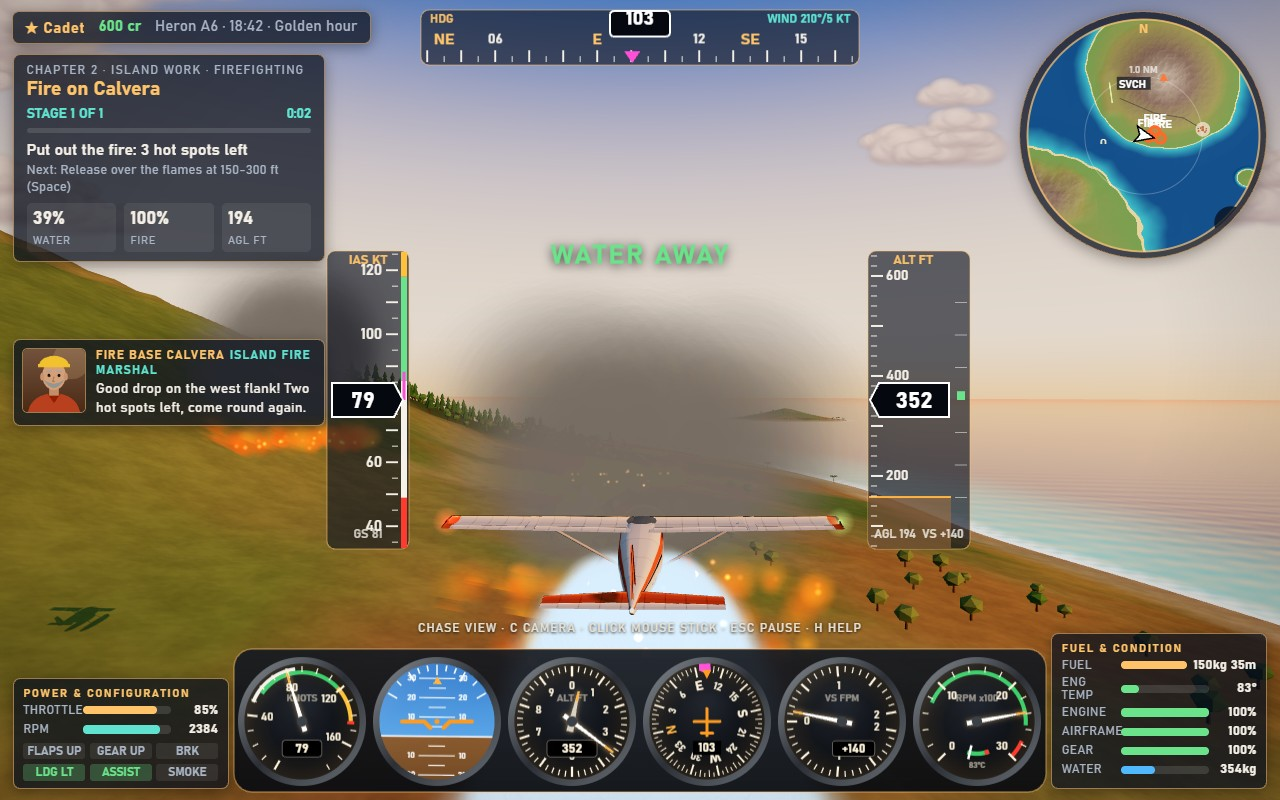
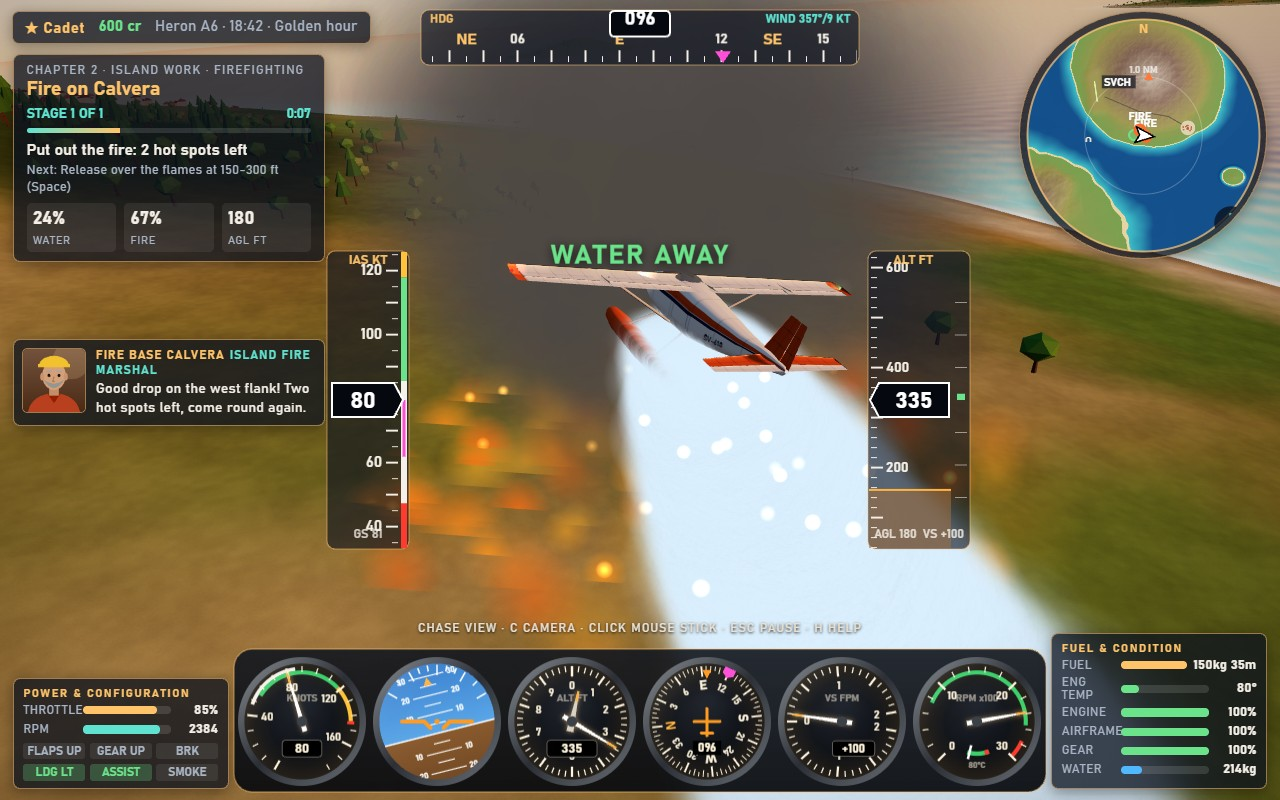
Firefight shot re-staged: second pass along the slope after the west flank is out, banking Heron with its water curtain over the flames, coast beyond; north wind carries narrower, darker smoke toward the sea

diff --git a/game/src/core/screenshotScenes.js b/game/src/core/screenshotScenes.js
@@ -57,18 +57,27 @@ export function stageScreenshot(name, game) {
     game.controls.mouse.state.lookY = 0.09;
     run(game, 1 / 60);
   } else if (name === 'firefight') {
+    // Second pass over the fire line on Calvera's south slope: the west flank is already out, the
+    // Heron banks along the slope with its water curtain falling on the east hot spot, the smoke
+    // drifting off to the side, San Calvo and the coast beyond.
     game.startMission(missionById('firebreak'));
-    const fire = { x: 3250, z: -1780 };
-    const ground = Math.max(0, game.world.terrain.heightAt(fire.x, fire.z));
     for (let i = 0; i < 420; i += 1) game.effects.update(STEP, 700, game.wind.state.current, null, game.camera, false);
-    const heading = 100;
-    const h = THREE.MathUtils.degToRad(heading);
-    const start = { x: fire.x - Math.sin(h) * 280, z: fire.z + Math.cos(h) * 280 };
-    session.simulation.start(session.spec, { x: start.x, y: ground + 58, z: start.z, heading, pitch: 2, speed: 41, flaps: 0, throttle: 0.85, gearDown: false }, { birds: false });
+    const passOver = (fire, heading, height, back, aside = 0) => {
+      const h = THREE.MathUtils.degToRad(heading);
+      const x = fire.x - Math.sin(h) * back - Math.cos(h) * aside;
+      const z = fire.z + Math.cos(h) * back - Math.sin(h) * aside;
+      return { x, y: Math.max(0, game.world.terrain.heightAt(x, z)) + height, z, heading };
+    };
+    session.simulation.start(session.spec, { ...passOver({ x: 3250, z: -1780 }, 100, 55, 130), pitch: 1, speed: 41, flaps: 0, throttle: 0.85, gearDown: false }, { birds: false });
     session.body.water = session.spec.waterCapacity;
     game.controls.controls.throttle = 0.85;
-    Object.assign(game.cameras.chaseFraming, { height: 1.55, distance: 1.2, lookAhead: 150, lookUp: -2 });
-    run(game, 2.4, { 105: ['action'] });
+    run(game, 5, { 2: ['action'] });
+    session.simulation.start(session.spec, { ...passOver({ x: 3600, z: -1730 }, 95, 50, 150, 35), pitch: 2, bank: 14, speed: 41, flaps: 0, throttle: 0.85, gearDown: false }, { birds: false });
+    session.body.water = session.spec.waterCapacity;
+    document.getElementById('toast-messages').replaceChildren();
+    Object.assign(game.cameras.chaseFraming, { height: 2.3, distance: 1.2, lookAhead: 6, lookUp: -7, yaw: -0.42 });
+    game.cameras.view = 'chase';
+    run(game, 1.9, { 62: ['action'] });
     game.hud.radio.say('bruno', 'Good drop on the west flank! Two hot spots left, come round again.', { priority: true });
     game.hud.radio.hold();
     run(game, 0.2);

diff --git a/game/src/effects/effectsDirector.js b/game/src/effects/effectsDirector.js
@@ -111,7 +111,7 @@ export function createEffectsDirector(scene, worldEmitters) {
           if (random() < 0.3) sparks.emit(f.x + Math.cos(a) * r, f.y + 3, f.z + Math.sin(a) * r, (random() - 0.5) * 3, 4 + random() * 6, (random() - 0.5) * 3, { life: 0.7, size: 2.5, grow: 0, alpha: 0.9, color: [1, 0.7, 0.3], drag: 1, lift: 1 });
         }
         if (random() < dt * 12 * f.intensity) {
-          smoke.emit(f.x + (random() - 0.5) * f.radius, f.y + 10, f.z + (random() - 0.5) * f.radius, 0, 8 + random() * 4, 0, { life: 18, size: 12, grow: 8, alpha: 0.3, color: [0.46, 0.42, 0.38], drag: 0.25, lift: 0.4 });
+          smoke.emit(f.x + (random() - 0.5) * f.radius, f.y + 10, f.z + (random() - 0.5) * f.radius, 0, 8 + random() * 4, 0, { life: 16, size: 10, grow: 5, alpha: 0.34, color: [0.3, 0.28, 0.27], drag: 0.25, lift: 0.4 });
         }
       }
       for (const f of flares) {

diff --git a/game/src/missions/missionCatalog.js b/game/src/missions/missionCatalog.js
@@ -88,7 +88,7 @@ export const MISSIONS = [
   {
     id: 'firebreak', chapter: 2, title: 'Fire on Calvera', kind: 'Firefighting', giver: 'bruno', aircraft: 'heron',
     summary: 'A forest fire is spreading on Calvera. Drop water on the hot spots and scoop more from the sea.',
-    time: 'golden', wind: { from: 220, speed: 4, gust: 2, turbulence: 0.6 }, fuel: 0.6,
+    time: 'golden', wind: { from: 10, speed: 4, gust: 2, turbulence: 0.6 }, fuel: 0.6,
     start: { type: 'air', x: 3200, y: 230, z: -500, heading: 5, speed: 42, flaps: 1, throttle: 0.65, gearDown: false },
     briefing: [['bruno', 'Fire Base Calvera. Pine forest burning above San Calvo. Two hot spots, moving uphill.'], ['bruno', 'Your tank is full. Release low over the flames with Space, then skim the sea at speed to scoop more. Gear up on the water!']],
     stages: [
